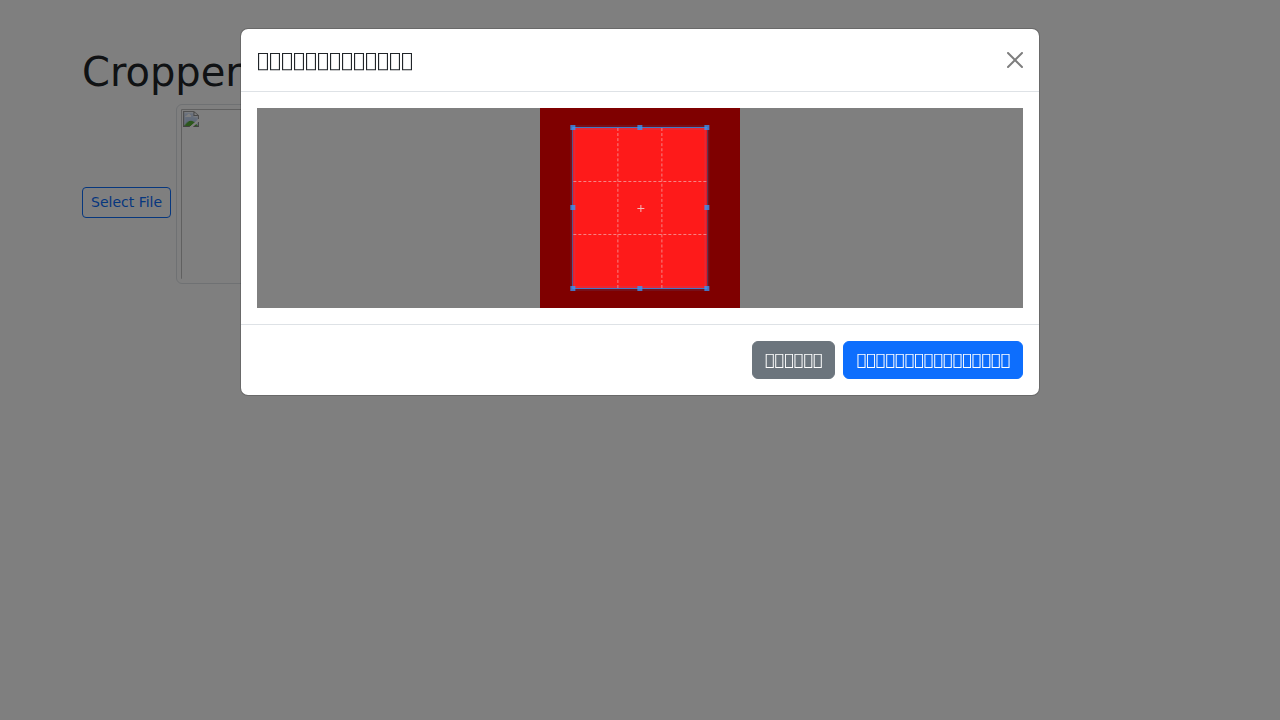
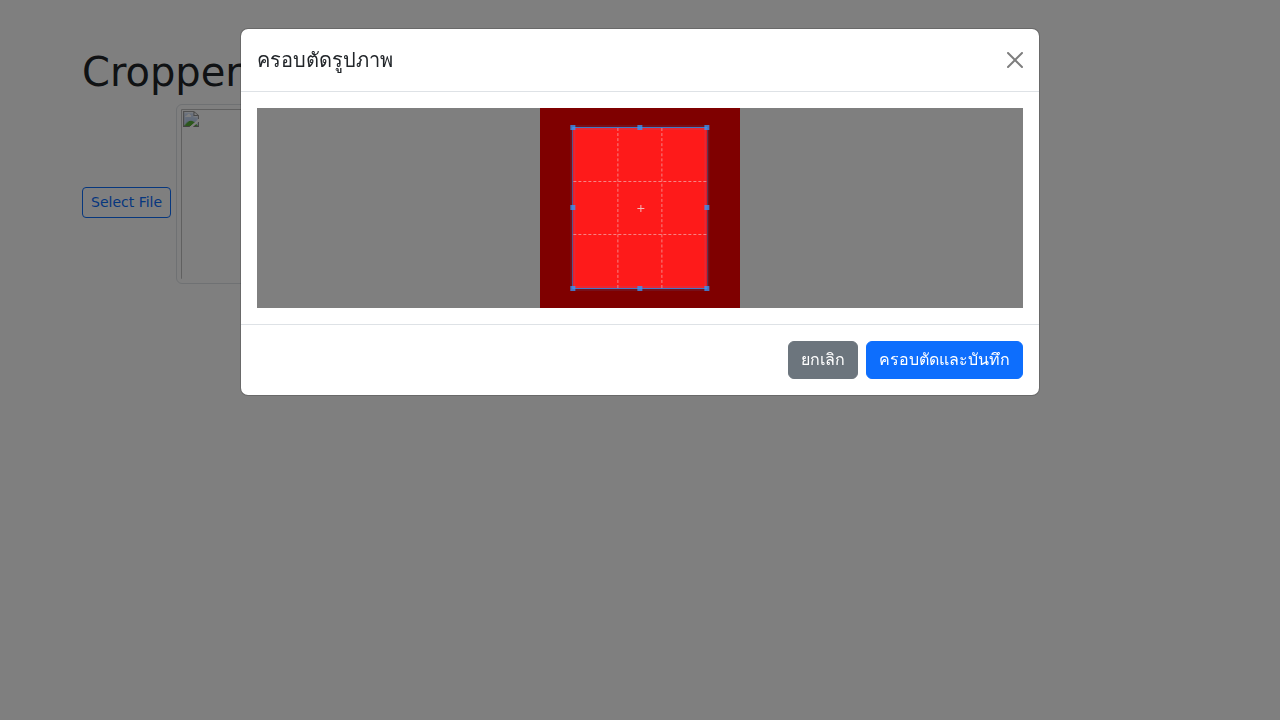
Improve document scanner auto-detection and add full-image fallback
- Modified `document-scanner.blade.php`:
  - Replaced Adaptive Threshold with Canny edge detection for better robustness.
  - Improved auto-detection logic to prioritize valid 4-corner polygons over large noise artifacts.
  - Implemented `maxQuadArea` tracking to solve logic flaw where noise masked valid documents.
  - Added "Full Image" (`resetToFull`) button to the Crop view.
  - Changed default fallback (when detection fails) to use the full image (0 margin).
  - Fixed memory leaks in OpenCV processing loop (proper `delete()` calls).
  - Updated UI labels to Thai ("เต็มรูป").

Changed region(s): [[0.5625, 0.4583, 0.7812, 0.55], [0.1875, 0.0611, 0.3125, 0.1222]]

diff --git a/resources/views/components/document-scanner.blade.php b/resources/views/components/document-scanner.blade.php
@@ -188,7 +188,7 @@
                     </div>
                     <div>
                          <button @click="resetToFull()" class="btn btn-outline-light me-2">
-                            <i class="bi bi-arrows-fullscreen"></i> Reset
+                            <i class="bi bi-arrows-fullscreen"></i> เต็มรูป
                         </button>
                         <button @click="saveCropEdit()" class="btn btn-primary">
                             <i class="bi bi-check-lg"></i> บันทึกแก้ไข
@@ -413,7 +413,6 @@
                 const dst = new cv.Mat();
                 const gray = new cv.Mat();
                 const blurred = new cv.Mat();
-                const thresholded = new cv.Mat();
 
                 // 1. Grayscale
                 cv.cvtColor(src, gray, cv.COLOR_RGBA2GRAY, 0);
@@ -421,27 +420,13 @@
                 // 2. Gaussian Blur (Reduce noise)
                 cv.GaussianBlur(gray, blurred, new cv.Size(5, 5), 0, 0, cv.BORDER_DEFAULT);
 
-                // 3. Adaptive Threshold (Better for shadows/lighting)
-                // Parameters: (src, dst, maxValue, adaptiveMethod, thresholdType, blockSize, C)
-                cv.adaptiveThreshold(blurred, thresholded, 255, cv.ADAPTIVE_THRESH_GAUSSIAN_C, cv.THRESH_BINARY, 11, 2);
+                // 3. Canny Edge Detection
+                // Lower threshold helps find faint edges, but might include noise
+                cv.Canny(blurred, dst, 30, 150);
 
-                // 4. Morphological Operations (Dilate then Erode to close gaps)
+                // 4. Dilate to connect broken edges
                 const M = cv.Mat.ones(3, 3, cv.CV_8U);
                 const anchor = new cv.Point(-1, -1);
-                // Erode first in binary inverted, or Dilate in standard binary?
-                // Adaptive Threshold usually returns white edges on black, or black on white depending on type.
-                // Assuming white edges -> Dilate connects them.
-                // Actually Canny is edge detection, Adaptive Threshold is segmentation.
-                // Let's stick to Canny for edges but use Adaptive Threshold output as input?
-                // No, standard robust pipeline is Canny. Let's optimize Canny instead with logic.
-                // OR: Use Canny but pre-process better.
-
-                // REVISED PIPELINE FOR "SMART" DETECTION:
-                // 1. Blur
-                // 2. Canny (with calculated threshold)
-                // 3. Dilate (connect edges)
-
-                cv.Canny(blurred, dst, 75, 200); // Standard Canny
                 cv.dilate(dst, dst, M, anchor, 1, cv.BORDER_CONSTANT, cv.morphologyDefaultBorderValue());
 
                 // Find Contours
@@ -449,12 +434,12 @@
                 let hierarchy = new cv.Mat();
                 cv.findContours(dst, contours, hierarchy, cv.RETR_LIST, cv.CHAIN_APPROX_SIMPLE);
 
-                let maxArea = 0;
-                let biggestContour = null;
+                let maxQuadArea = 0;
+                let bestQuad = null;
                 let width = src.cols;
                 let height = src.rows;
                 let found = false;
-                let minArea = width * height * 0.05; // 5% of screen (ID cards can be small)
+                let minArea = width * height * 0.05; // 5% minimum area
 
                 for(let i = 0; i < contours.size(); ++i) {
                     let cnt = contours.get(i);
@@ -463,14 +448,13 @@
                     if (area > minArea) {
                         let peri = cv.arcLength(cnt, true);
                         let approx = new cv.Mat();
-                        // Relax epsilon for ID cards which might be rounded
                         cv.approxPolyDP(cnt, approx, 0.02 * peri, true);
 
-                        if (approx.rows === 4 && area > maxArea) {
-                            // Check convexity to ensure it's a rectangle-ish shape
-                            if(cv.isContourConvex(approx)) {
-                                maxArea = area;
-                                biggestContour = approx;
+                        if (cv.isContourConvex(approx) && approx.rows === 4) {
+                            if (area > maxQuadArea) {
+                                if (bestQuad) bestQuad.delete(); // Avoid leak
+                                maxQuadArea = area;
+                                bestQuad = approx;
                                 found = true;
                             } else {
                                 approx.delete();
@@ -482,22 +466,27 @@
                 }
 
                 let corners = [];
-                if (biggestContour) {
-                     const points = [];
+
+                if (found && bestQuad) {
+                    // Extract points from the perfect polygon
+                    const points = [];
                     for(let i=0; i<4; i++) {
                         points.push({
-                            x: biggestContour.data32S[i*2],
-                            y: biggestContour.data32S[i*2+1]
+                            x: bestQuad.data32S[i*2],
+                            y: bestQuad.data32S[i*2+1]
                         });
                     }
                     corners = this.sortPoints(points);
-                    biggestContour.delete();
-                } else {
+                    bestQuad.delete();
+                }
+                else {
+                    // Fallback to Full Image
                     corners = this.getDefaultCorners(width, height);
+                    found = false;
                 }
 
                 // Cleanup
-                gray.delete(); blurred.delete(); thresholded.delete();
+                gray.delete(); blurred.delete();
                 dst.delete(); contours.delete(); hierarchy.delete(); M.delete();
 
                 return { corners, found };
@@ -544,14 +533,13 @@
             },
 
             getDefaultCorners(w, h) {
-                // Default to a central box
-                const padX = w * 0.15;
-                const padY = h * 0.15;
+                // Default to FULL IMAGE (0,0 to w,h)
+                // This ensures that if detection fails, we don't crop out important edges.
                 return [
-                    {x: padX, y: padY},
-                    {x: w-padX, y: padY},
-                    {x: w-padX, y: h-padY},
-                    {x: padX, y: h-padY}
+                    {x: 0, y: 0},
+                    {x: w, y: 0},
+                    {x: w, y: h},
+                    {x: 0, y: h}
                 ];
             },
 
@@ -616,12 +604,12 @@
             resetToFull() {
                 const w = this.canvasWidth;
                 const h = this.canvasHeight;
-                const pad = 20;
+                // Full image (no padding)
                 this.corners = [
-                    {x: pad, y: pad},
-                    {x: w-pad, y: pad},
-                    {x: w-pad, y: h-pad},
-                    {x: pad, y: h-pad}
+                    {x: 0, y: 0},
+                    {x: w, y: 0},
+                    {x: w, y: h},
+                    {x: 0, y: h}
                 ];
             },
 
